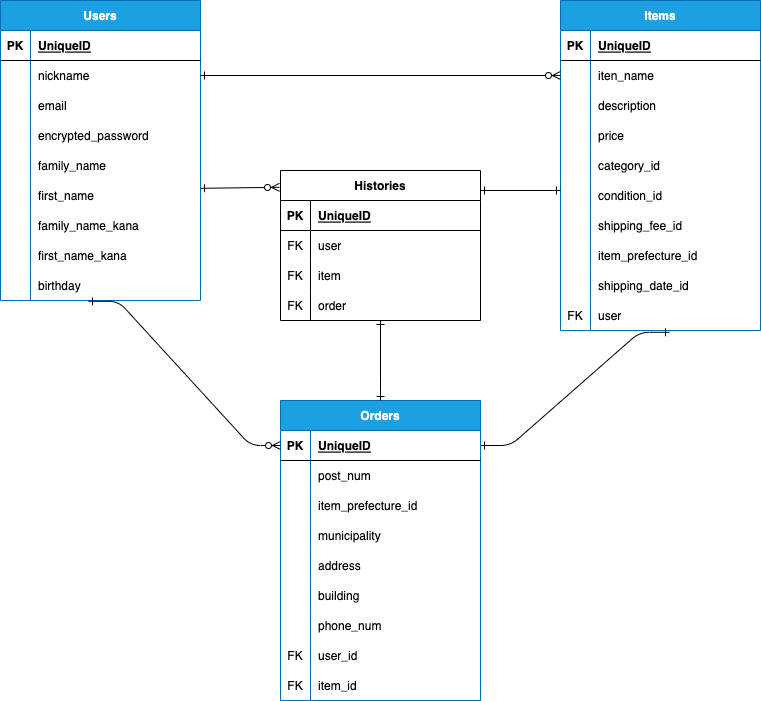
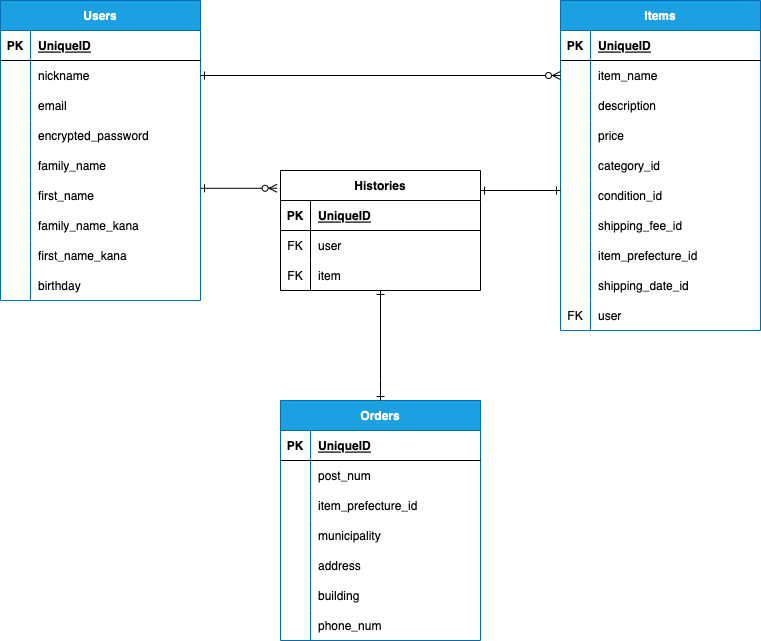
README・ER図修正４

diff --git a/README.md b/README.md
@@ -10,17 +10,16 @@
 | first_name         | string  | null: false               |
 | family_name_kana   | string  | null: false               |
 | first_name_kana    | string  | null: false               |
-| birthday           | string  | null: false               | <!--レビュー前に修正-->
+| birthday           | date    | null: false               |
 ### Association
 has_many :items
-has_many :orders
 has_many :histories
 
 ## Itemsテーブル
 | Column             | Type       | Options                        |
 | ------------------ | ---------- | ------------------------------ |
 | item_name          | string     | null: false                    |
-| description        | string     | null: false                    |
+| description        | text       | null: false                    |
 | price              | integer    | null: false                    |
 | category_id        | integer    | null: false                    |
 | condition_id       | integer    | null: false                    |
@@ -30,7 +29,6 @@ has_many :histories
 | user               | references | null: false, foreign_key: true |
 ### Association
 belongs_to :user
-has_one :order
 has_one :history
 
 ## Ordersテーブル
@@ -42,21 +40,15 @@ has_one :history
 | address            | string     | null: false                    |
 | building           | string     |                                |
 | phone_num          | string     | null: false                    |
-| user               | references | null: false, foreign_key: true |
-| item               | references | null: false, foreign_key: true |
 ### Association
-belongs_to :user
-belongs_to :item
-has_one :history
-
+belongs_to :history
 
 ## Historiesテーブル
 | Column | Type       | Options                        |
 | ------ | ---------- | ------------------------------ |
 | user   | references | null: false, foreign_key: true |
 | item   | references | null: false, foreign_key: true |
-| order  | references | null: false, foreign_key: true |
 ### Association
 belongs_to :user
 belongs_to :item
-belongs_to :order
+has_one :order
